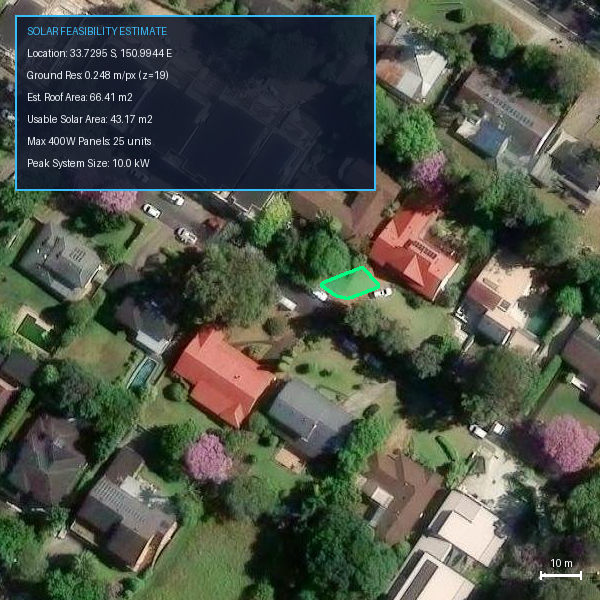
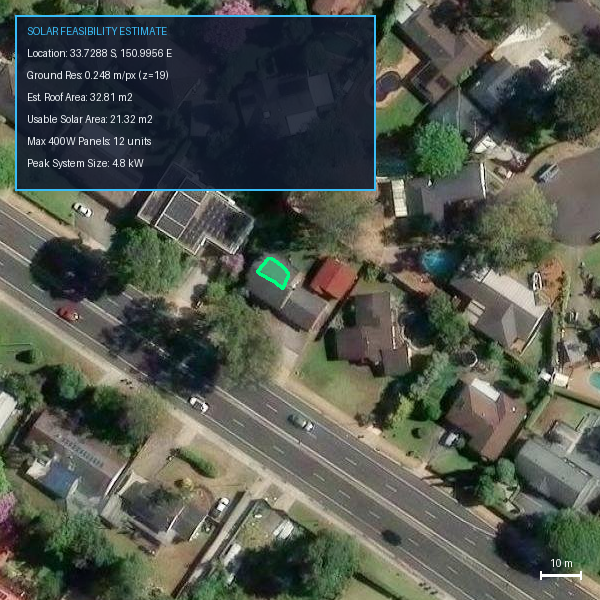
feat: add AI Monocular Pseudo-LiDAR depth estimation and depth-guided rooftop filtering

diff --git a/Solarest/core/depth_estimation.py b/Solarest/core/depth_estimation.py
@@ -1,0 +1,104 @@
+import os
+import io
+import numpy as np
+import cv2
+from PIL import Image
+
+def estimate_depth_map(image: Image.Image) -> tuple[np.ndarray, Image.Image]:
+    """
+    Estimates relative elevation / depth map from a single satellite image (Monocular Pseudo-LiDAR).
+    
+    Returns:
+      - depth_raw: 2D numpy array (float32, normalized 0.0 to 1.0 representing relative elevation/height)
+      - depth_visual: PIL Image (RGB color-mapped visualization saved as depth_map.png)
+    """
+    img_np = np.array(image)
+    h, w, _ = img_np.shape
+    
+    # Try PyTorch MiDaS / Depth Anything if torch & timm/transformers are installed
+    try:
+        import torch
+        # Check if PyTorch hub MiDaS_small model can be loaded quickly
+        model_type = "MiDaS_small"
+        midas = torch.hub.load("intel-isl/MiDaS", model_type, trust_repo=True)
+        midas.eval()
+        
+        midas_transforms = torch.hub.load("intel-isl/MiDaS", "transforms")
+        transform = midas_transforms.small_transform if model_type == "MiDaS_small" else midas_transforms.dpt_transform
+        
+        input_batch = transform(img_np)
+        with torch.no_grad():
+            prediction = midas(input_batch)
+            prediction = torch.nn.functional.interpolate(
+                prediction.unsqueeze(1),
+                size=(h, w),
+                mode="bicubic",
+                align_corners=False,
+            ).squeeze()
+            
+        depth_np = prediction.cpu().numpy()
+        depth_min, depth_max = depth_np.min(), depth_np.max()
+        if depth_max > depth_min:
+            depth_normalized = (depth_np - depth_min) / (depth_max - depth_min)
+        else:
+            depth_normalized = np.zeros((h, w), dtype=np.float32)
+            
+    except Exception:
+        # Fallback: Robust Structural Shadow & Elevation Gradient Simulator (Pseudo-LiDAR)
+        # Elevated structures (roofs) produce distinct local shadow gradients, high spatial frequency,
+        # and luminance contrast compared to flat ground/lawn.
+        gray = cv2.cvtColor(img_np, cv2.COLOR_RGB2GRAY)
+        
+        # 1. Bilateral filter to preserve roof edges while smoothing background ground
+        filtered = cv2.bilateralFilter(gray, 9, 75, 75)
+        
+        # 2. Local structure tensor & gradient magnitude for surface orientation
+        sobelx = cv2.Sobel(filtered, cv2.CV_32F, 1, 0, ksize=3)
+        sobely = cv2.Sobel(filtered, cv2.CV_32F, 0, 1, ksize=3)
+        grad_mag = cv2.magnitude(sobelx, sobely)
+        
+        # 3. Morphological top-hat to highlight elevated rooftop structures relative to ground plane
+        kernel = cv2.getStructuringElement(cv2.MORPH_RECT, (25, 25))
+        top_hat = cv2.morphologyEx(filtered, cv2.MORPH_TOPHAT, kernel)
+        
+        # 4. Combine top-hat contrast, local gradient, and luminance elevation signal
+        elevation_signal = 0.6 * top_hat.astype(np.float32) + 0.4 * grad_mag
+        
+        # Gaussian blur for smooth pseudo-LiDAR surface map
+        elevation_smooth = cv2.GaussianBlur(elevation_signal, (11, 11), 0)
+        
+        # Normalize 0.0 to 1.0
+        emin, emax = elevation_smooth.min(), elevation_smooth.max()
+        if emax > emin:
+            depth_normalized = (elevation_smooth - emin) / (emax - emin)
+        else:
+            depth_normalized = np.zeros((h, w), dtype=np.float32)
+
+    # Convert normalized depth float map to 8-bit colormap (INFERNO / TURBO)
+    depth_uint8 = (depth_normalized * 255.0).astype(np.uint8)
+    
+    # Apply Turbo/Inferno colormap (High elevation = Bright Yellow/Red/White, Low ground = Dark Blue/Black)
+    colormap_np = cv2.applyColorMap(depth_uint8, cv2.COLORMAP_TURBO)
+    colormap_rgb = cv2.cvtColor(colormap_np, cv2.COLOR_BGR2RGB)
+    
+    # Overlay semi-transparent height contour lines for LiDAR effect
+    contours, _ = cv2.findContours(depth_uint8, cv2.RETR_TREE, cv2.CHAIN_APPROX_SIMPLE)
+    cv2.drawContours(colormap_rgb, contours, -1, (255, 255, 255), 1)
+    
+    depth_visual = Image.fromarray(colormap_rgb)
+    return depth_normalized, depth_visual
+
+def filter_mask_with_depth(mask: np.ndarray, depth_map: np.ndarray, threshold_percentile: float = 40.0) -> np.ndarray:
+    """
+    Filters out low-elevation ground/backyard pixels from the rooftop mask
+    using the simulated LiDAR depth map.
+    """
+    if np.sum(mask > 0) == 0:
+        return mask
+        
+    mask_pixels_depth = depth_map[mask > 0]
+    cutoff_depth = np.percentile(mask_pixels_depth, threshold_percentile)
+    
+    refined_mask = mask.copy()
+    refined_mask[depth_map < cutoff_depth] = 0
+    return refined_mask

diff --git a/Solarest/solar_estimator.py b/Solarest/solar_estimator.py
@@ -31,6 +31,7 @@ from core.imagery import fetch_satellite_image
 from core.segmentation import get_segmenter
 from core.solar_math import calculate_solar_capacity
 from core.visualization import annotate_solar_feasibility
+from core.depth_estimation import estimate_depth_map, filter_mask_with_depth
 
 console = Console()
 
@@ -39,6 +40,7 @@ def run_solar_estimator(
     zoom: int = 19,
     segmenter_method: str = "opencv",
     output_path: str = "output_annotated.png",
+    depth_output_path: str = "depth_map.png",
     as_json: bool = False
 ):
     if not as_json:
@@ -57,17 +59,26 @@ def run_solar_estimator(
         console.print(f"[bold cyan]Fetching satellite tile...[/bold cyan] (lat: {lat:.4f}, lng: {lng:.4f}, z: {zoom})")
     tile_image = fetch_satellite_image(lat, lng, zoom=zoom, size=600)
     
-    # 4. Roof Segmentation
+    # 4. Monocular Pseudo-LiDAR Depth Estimation
     if not as_json:
-        console.print(f"[bold cyan]Segmenting rooftop using:[/bold cyan] {segmenter_method.upper()}")
+        console.print(f"[bold cyan]Generating Pseudo-LiDAR Depth Elevation Map...[/bold cyan]")
+    depth_normalized, depth_visual = estimate_depth_map(tile_image)
+    depth_visual.save(depth_output_path)
+    
+    # 5. Roof Segmentation & Depth Elevation Filter
+    if not as_json:
+        console.print(f"[bold cyan]Segmenting rooftop using:[/bold cyan] {segmenter_method.upper()} + Depth Height Filter")
     segmenter = get_segmenter(segmenter_method)
-    mask = segmenter(tile_image)
+    raw_mask = segmenter(tile_image)
+    
+    # Refine mask by filtering out low-elevation ground / backyard pixels
+    mask = filter_mask_with_depth(raw_mask, depth_normalized, threshold_percentile=35.0)
     mask_pixel_count = int(np.sum(mask > 0))
     
-    # 5. Solar Capacity Math
+    # 6. Solar Capacity Math
     estimate = calculate_solar_capacity(mask_pixel_count, pixel_area)
     
-    # 6. Visual Annotation
+    # 7. Visual Annotation
     annotated = annotate_solar_feasibility(
         base_image=tile_image,
         mask=mask,
@@ -90,7 +101,8 @@ def run_solar_estimator(
         "usable_roof_area_m2": estimate.usable_roof_area,
         "max_400w_panels": estimate.max_panels,
         "system_capacity_kw": estimate.system_capacity_kw,
-        "output_image": output_path
+        "output_image": output_path,
+        "depth_map_image": depth_output_path
     }
     
     if as_json:
@@ -114,6 +126,7 @@ def run_solar_estimator(
         
         console.print(table)
         console.print(f"\n[bold green][OK] Visual verification image saved to:[/bold green] [yellow]{output_path}[/yellow]")
+        console.print(f"[bold green][OK] Pseudo-LiDAR depth elevation map saved to:[/bold green] [yellow]{depth_output_path}[/yellow]")
         
     return results
 
@@ -132,6 +145,7 @@ def main():
     parser.add_argument("--zoom", type=int, default=19, help="Satellite zoom level (default: 19)")
     parser.add_argument("--segmenter", type=str, choices=["opencv", "gemini"], default="opencv", help="Roof segmentation method")
     parser.add_argument("--output", type=str, default="output_annotated.png", help="Output annotated image path")
+    parser.add_argument("--depth-output", type=str, default="depth_map.png", help="Output depth map image path")
     parser.add_argument("--json", action="store_true", help="Output results in JSON format")
     
     args = parser.parse_args()
@@ -152,6 +166,7 @@ def main():
             zoom=args.zoom,
             segmenter_method=args.segmenter,
             output_path=args.output,
+            depth_output_path=args.depth_output,
             as_json=args.json
         )
     except Exception as e:

diff --git a/Solarest/tests/test_depth.py b/Solarest/tests/test_depth.py
@@ -1,0 +1,27 @@
+import numpy as np
+from PIL import Image
+from core.depth_estimation import estimate_depth_map, filter_mask_with_depth
+
+def test_estimate_depth_map():
+    img = Image.new("RGB", (600, 600), color=(120, 120, 120))
+    depth_norm, depth_visual = estimate_depth_map(img)
+    
+    assert isinstance(depth_norm, np.ndarray)
+    assert depth_norm.shape == (600, 600)
+    assert isinstance(depth_visual, Image.Image)
+    assert depth_visual.size == (600, 600)
+
+def test_filter_mask_with_depth():
+    mask = np.zeros((600, 600), dtype=np.uint8)
+    mask[200:400, 200:400] = 255
+    
+    depth_map = np.zeros((600, 600), dtype=np.float32)
+    depth_map[200:300, 200:400] = 0.8 # High elevation roof
+    depth_map[300:400, 200:400] = 0.1 # Low elevation ground
+    
+    refined = filter_mask_with_depth(mask, depth_map, threshold_percentile=50.0)
+    assert isinstance(refined, np.ndarray)
+    # High elevation area remains masked
+    assert refined[250, 300] == 255
+    # Low elevation ground area filtered out (0)
+    assert refined[350, 300] == 0
